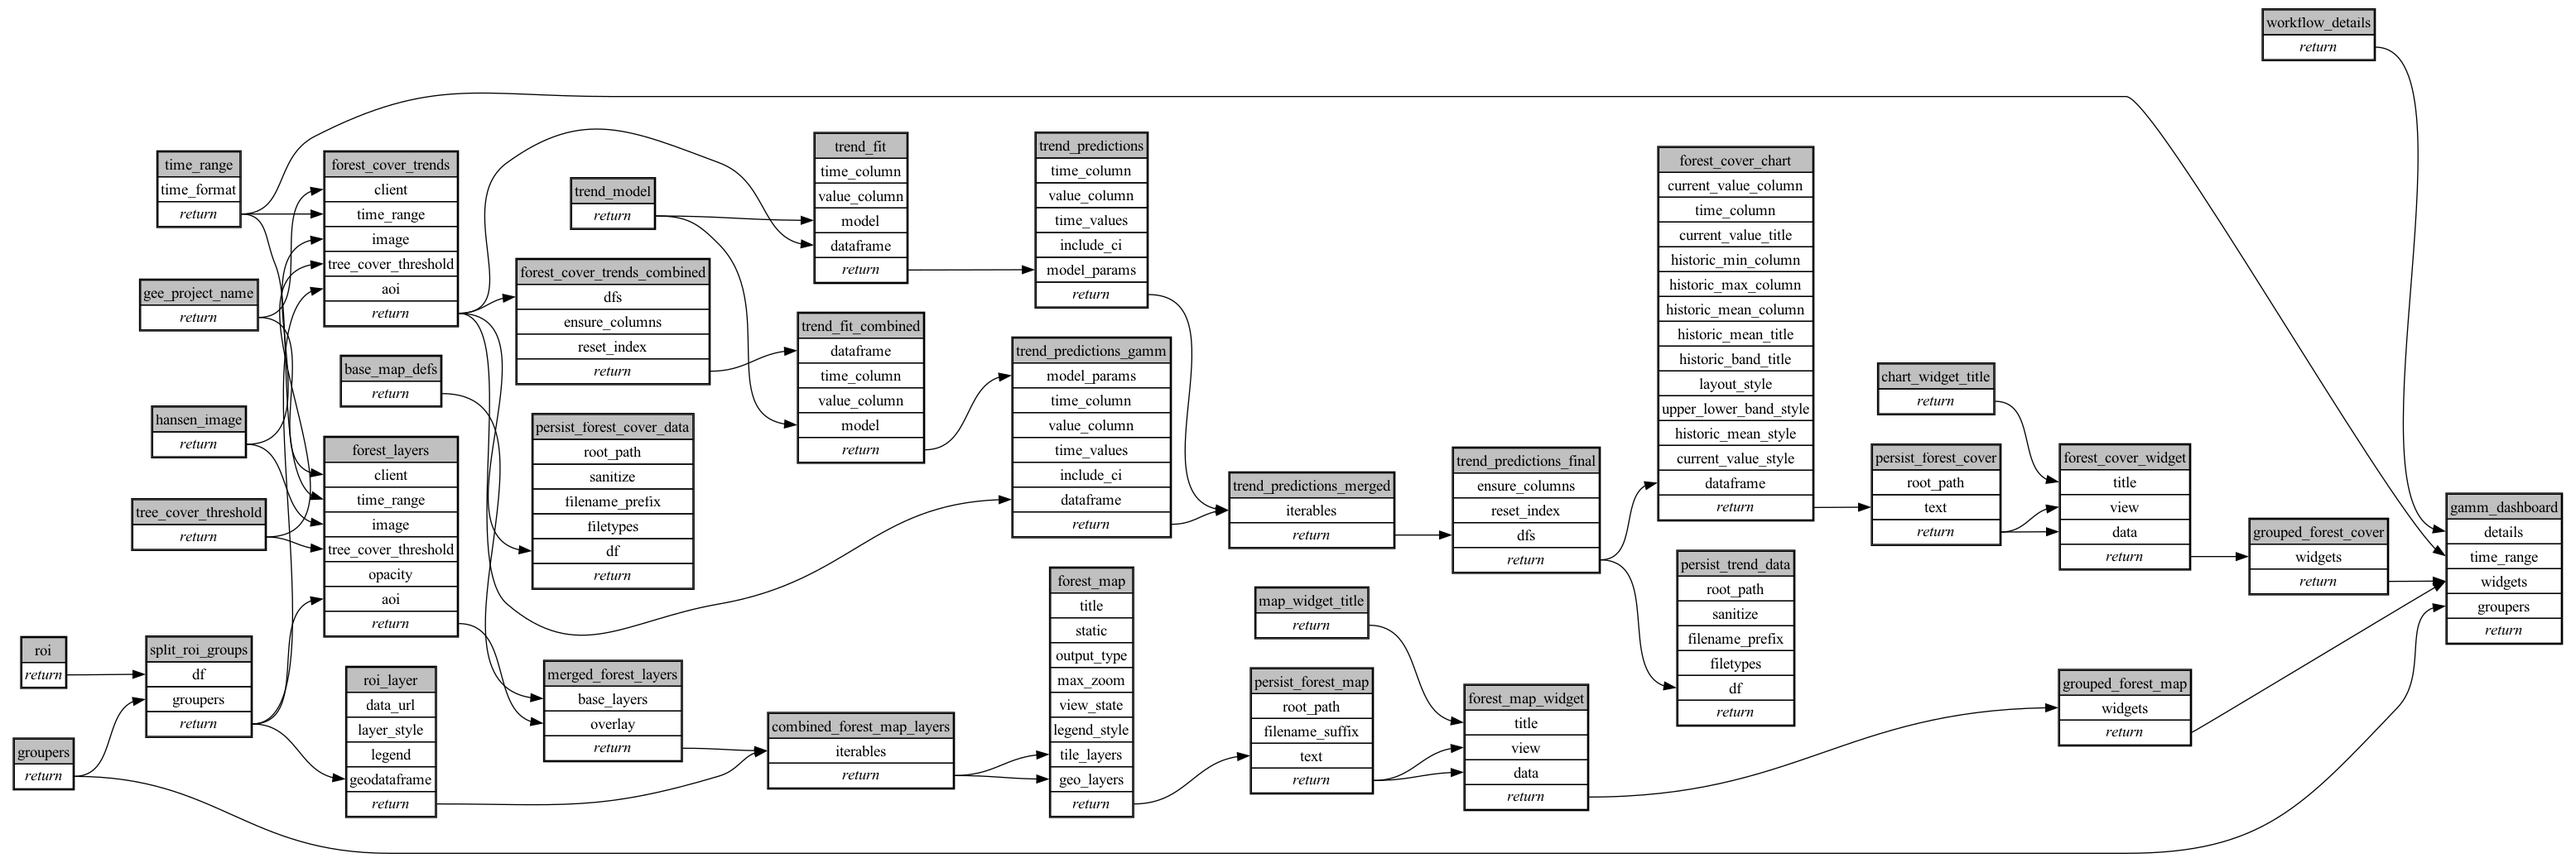
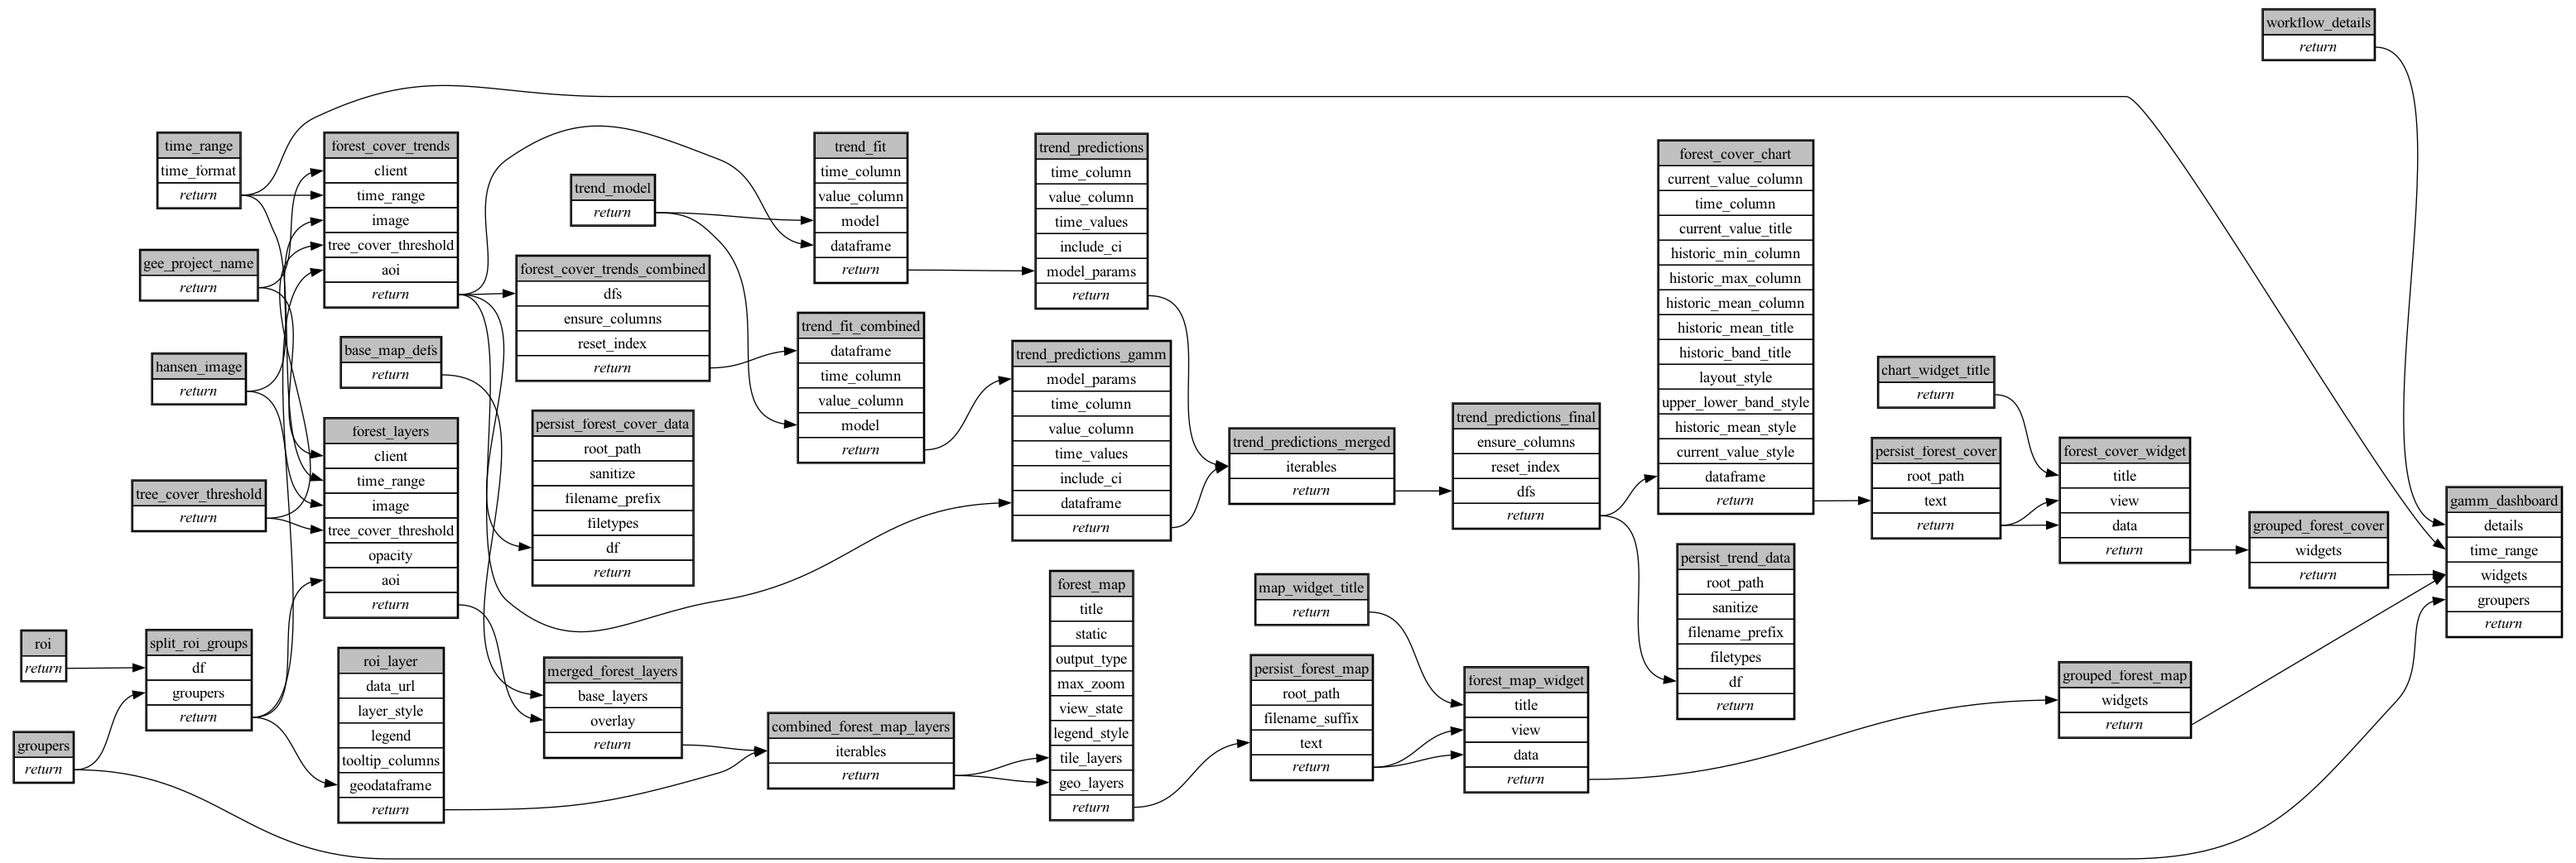
Pin tooltip_columns on ROI layer to hide it from the form
None (show all properties) is the only sensible default here; exposing
it as an editable advanced field added confusion with no real use case.

diff --git a/ecoscope-workflows-hansen-deforestation-workflow/ecoscope_workflows_hansen_deforestation_workflow/dags/run_sequential.py b/ecoscope-workflows-hansen-deforestation-workflow/ecoscope_workflows_hansen_deforestation_workflow/dags/run_sequential.py
@@ -336,6 +336,7 @@ def main(params: dict[str, Any], validate_params_schema: bool = True):
                     {"label": "ROI Boundary", "color": "rgba(127, 201, 127, 1)"}
                 ],
             },
+            tooltip_columns=None,
             **(params.get("roi_layer") or {}),
         )
         .mapvalues(argnames=["geodataframe"], argvalues=split_roi_groups)

diff --git a/ecoscope-workflows-hansen-deforestation-workflow/ecoscope_workflows_hansen_deforestation_workflow/dags/run_sequential_mock_io.py b/ecoscope-workflows-hansen-deforestation-workflow/ecoscope_workflows_hansen_deforestation_workflow/dags/run_sequential_mock_io.py
@@ -349,6 +349,7 @@ def main(params: dict[str, Any], validate_params_schema: bool = True):
                     {"label": "ROI Boundary", "color": "rgba(127, 201, 127, 1)"}
                 ],
             },
+            tooltip_columns=None,
             **(params.get("roi_layer") or {}),
         )
         .mapvalues(argnames=["geodataframe"], argvalues=split_roi_groups)

diff --git a/ecoscope-workflows-hansen-deforestation-workflow/README.md b/ecoscope-workflows-hansen-deforestation-workflow/README.md
@@ -5,8 +5,8 @@
 
 ```yaml
 # fingerprint:
-artifacts_sha256_basic: c924c4f5335d8f4db27e5c6b11ecc11e30954c3946ac1e297e648552deb1b116
-artifacts_sha256_strict: ca4be8f93e9818d4abe4451f43476597de0c0f9454f08640e87892eefc089221
+artifacts_sha256_basic: f44116c2a9bfd7d705fa790c72ebf07078c9bf08e20d5dc063a04992aa3fe834
+artifacts_sha256_strict: fbe3904f340ae6fb9ed3f66965f49cff1d7de23e7ac5f2286668c788d2065b39
 installed_requirements:
 - channel: https://repo.prefix.dev/ecoscope-workflows/
   name: ecoscope-platform
@@ -26,8 +26,8 @@ installed_requirements:
 - channel: conda-forge
   name: pymc
   version: {version: ==6.3.1}
-params_sha256: 559b9d74debabfdb31511911ad6cdef9d1f6c112684cb475732342930661ea03
-spec_sha256: 565166bb3c8c8762fb11f9b5d5065f9073365b8b94bf072150ec8c01e1a9dddd
+params_sha256: 59e16a068726d1bc45d85c5597917f2e8bc83a95039f0b8a85925fe989d761a5
+spec_sha256: 2fdd09f0ff7459883e113be2c08b610ecb356ba12f8b80edd85c79984d86e348
 
 ```
 
